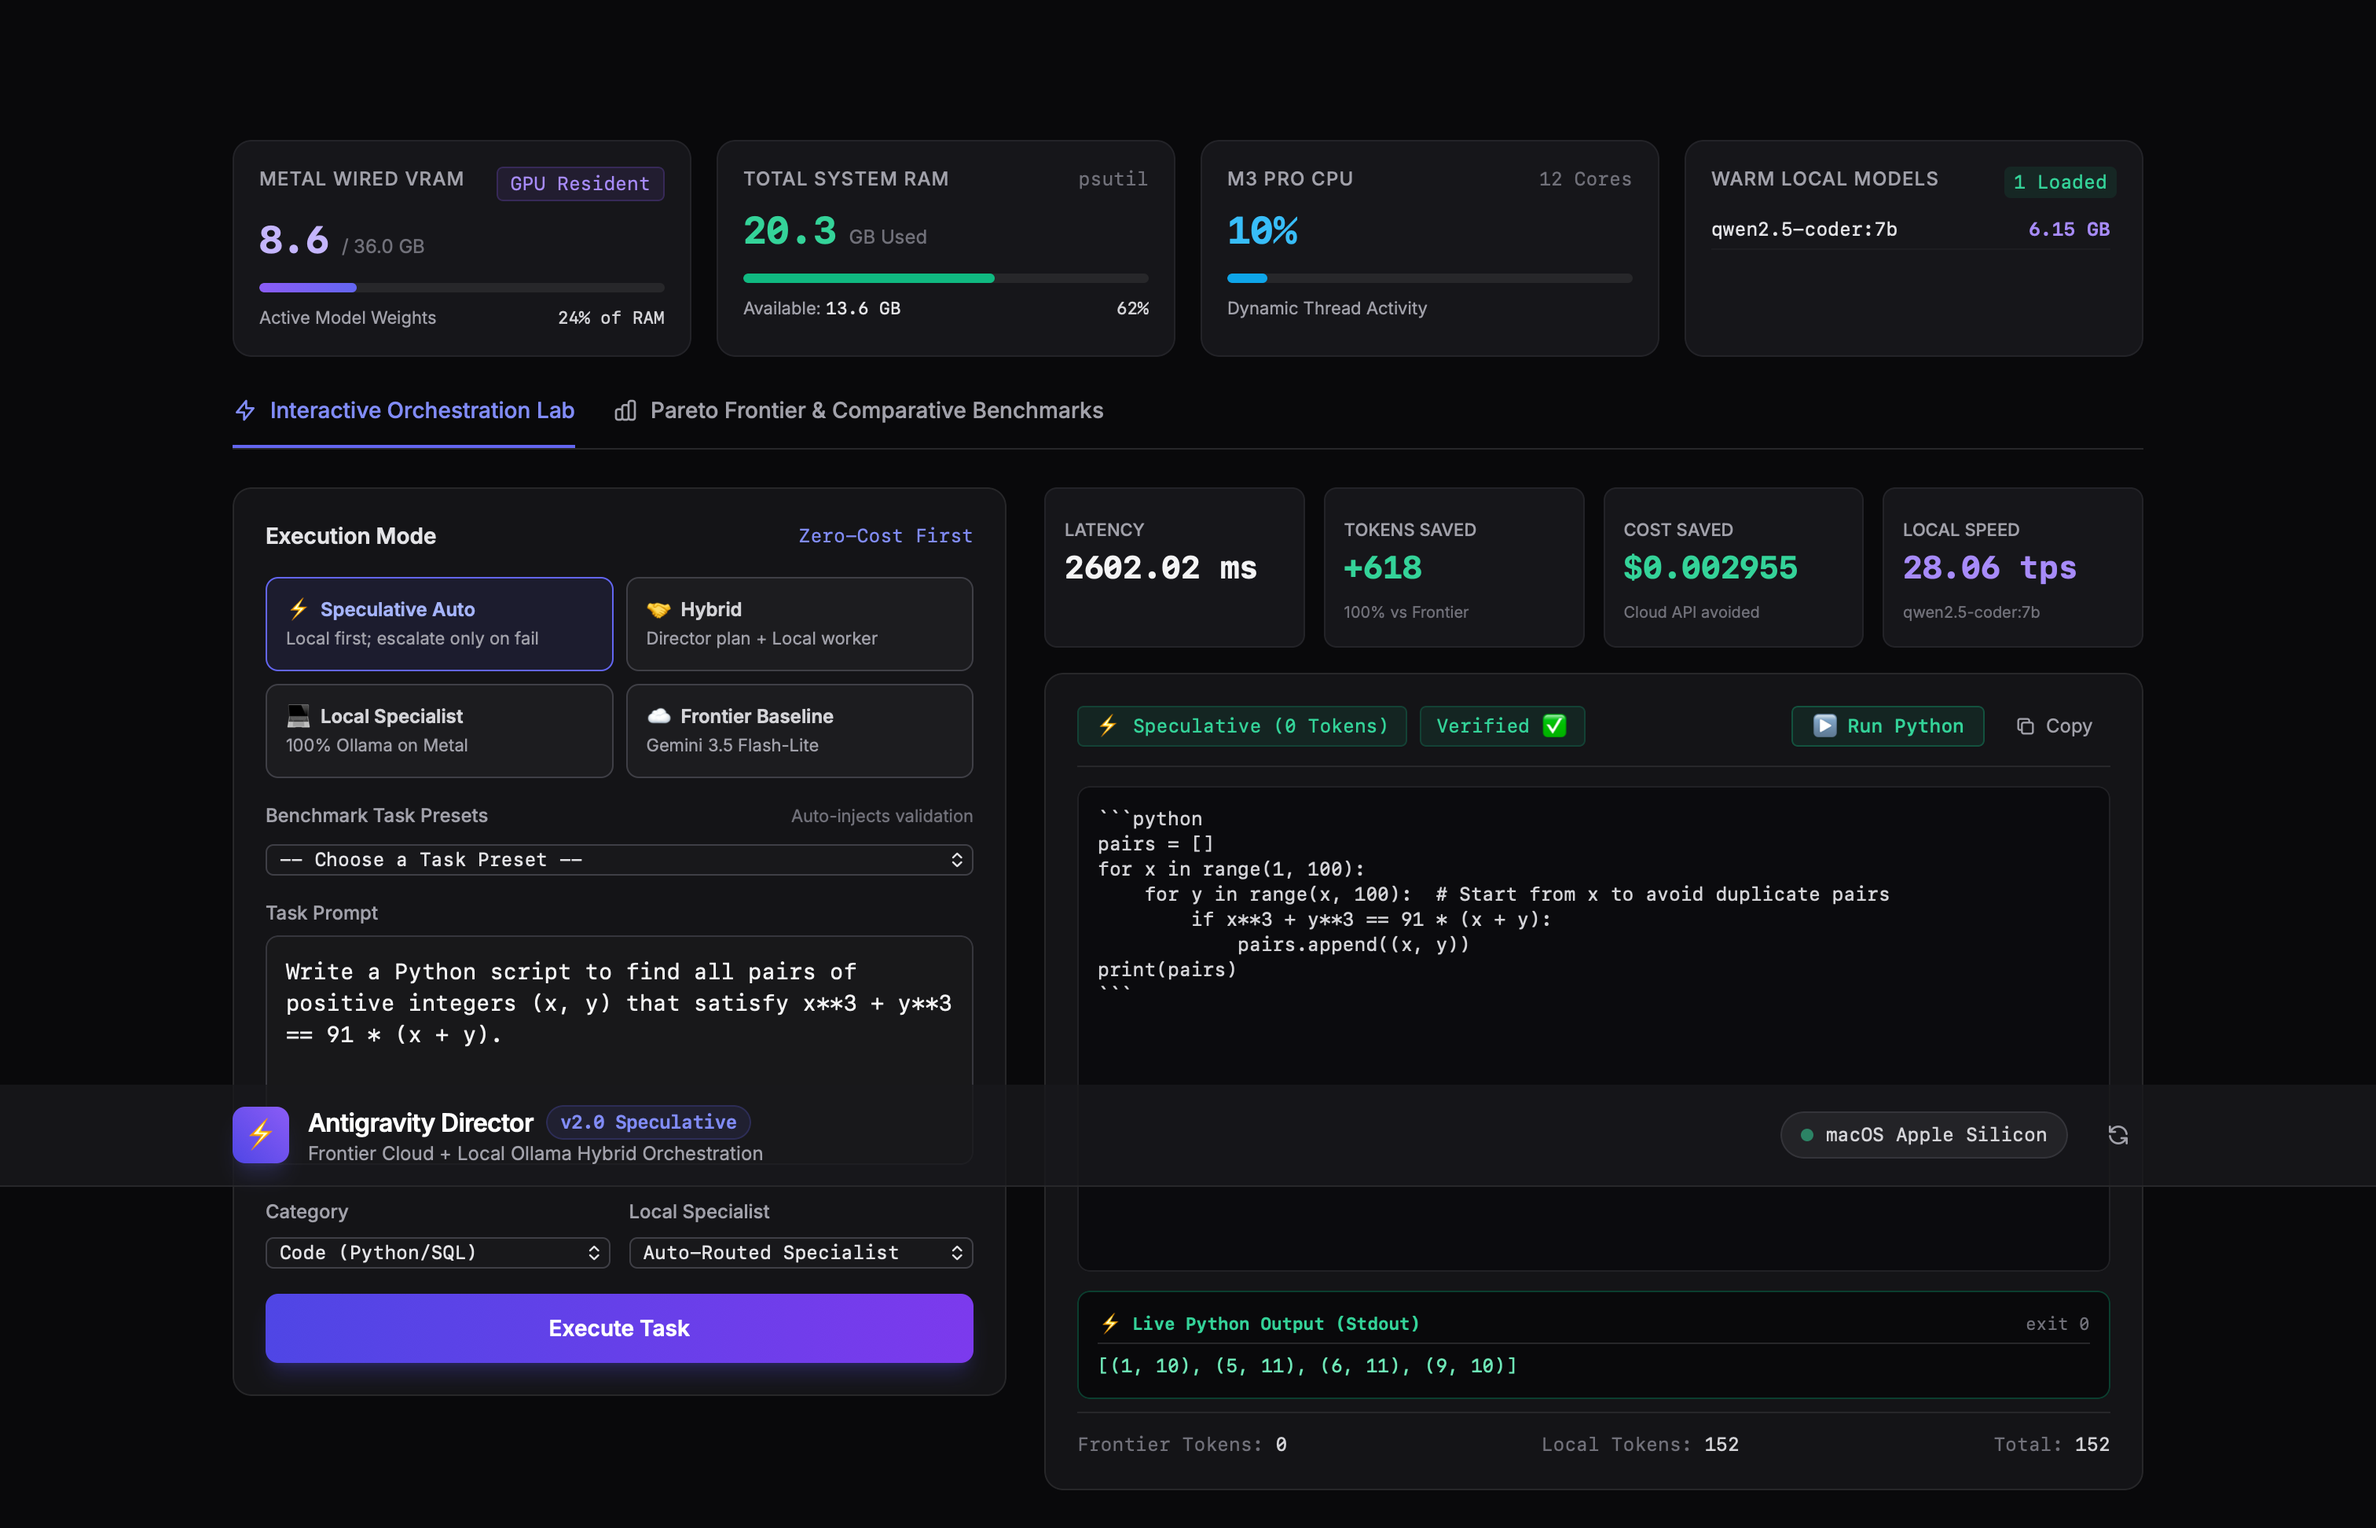
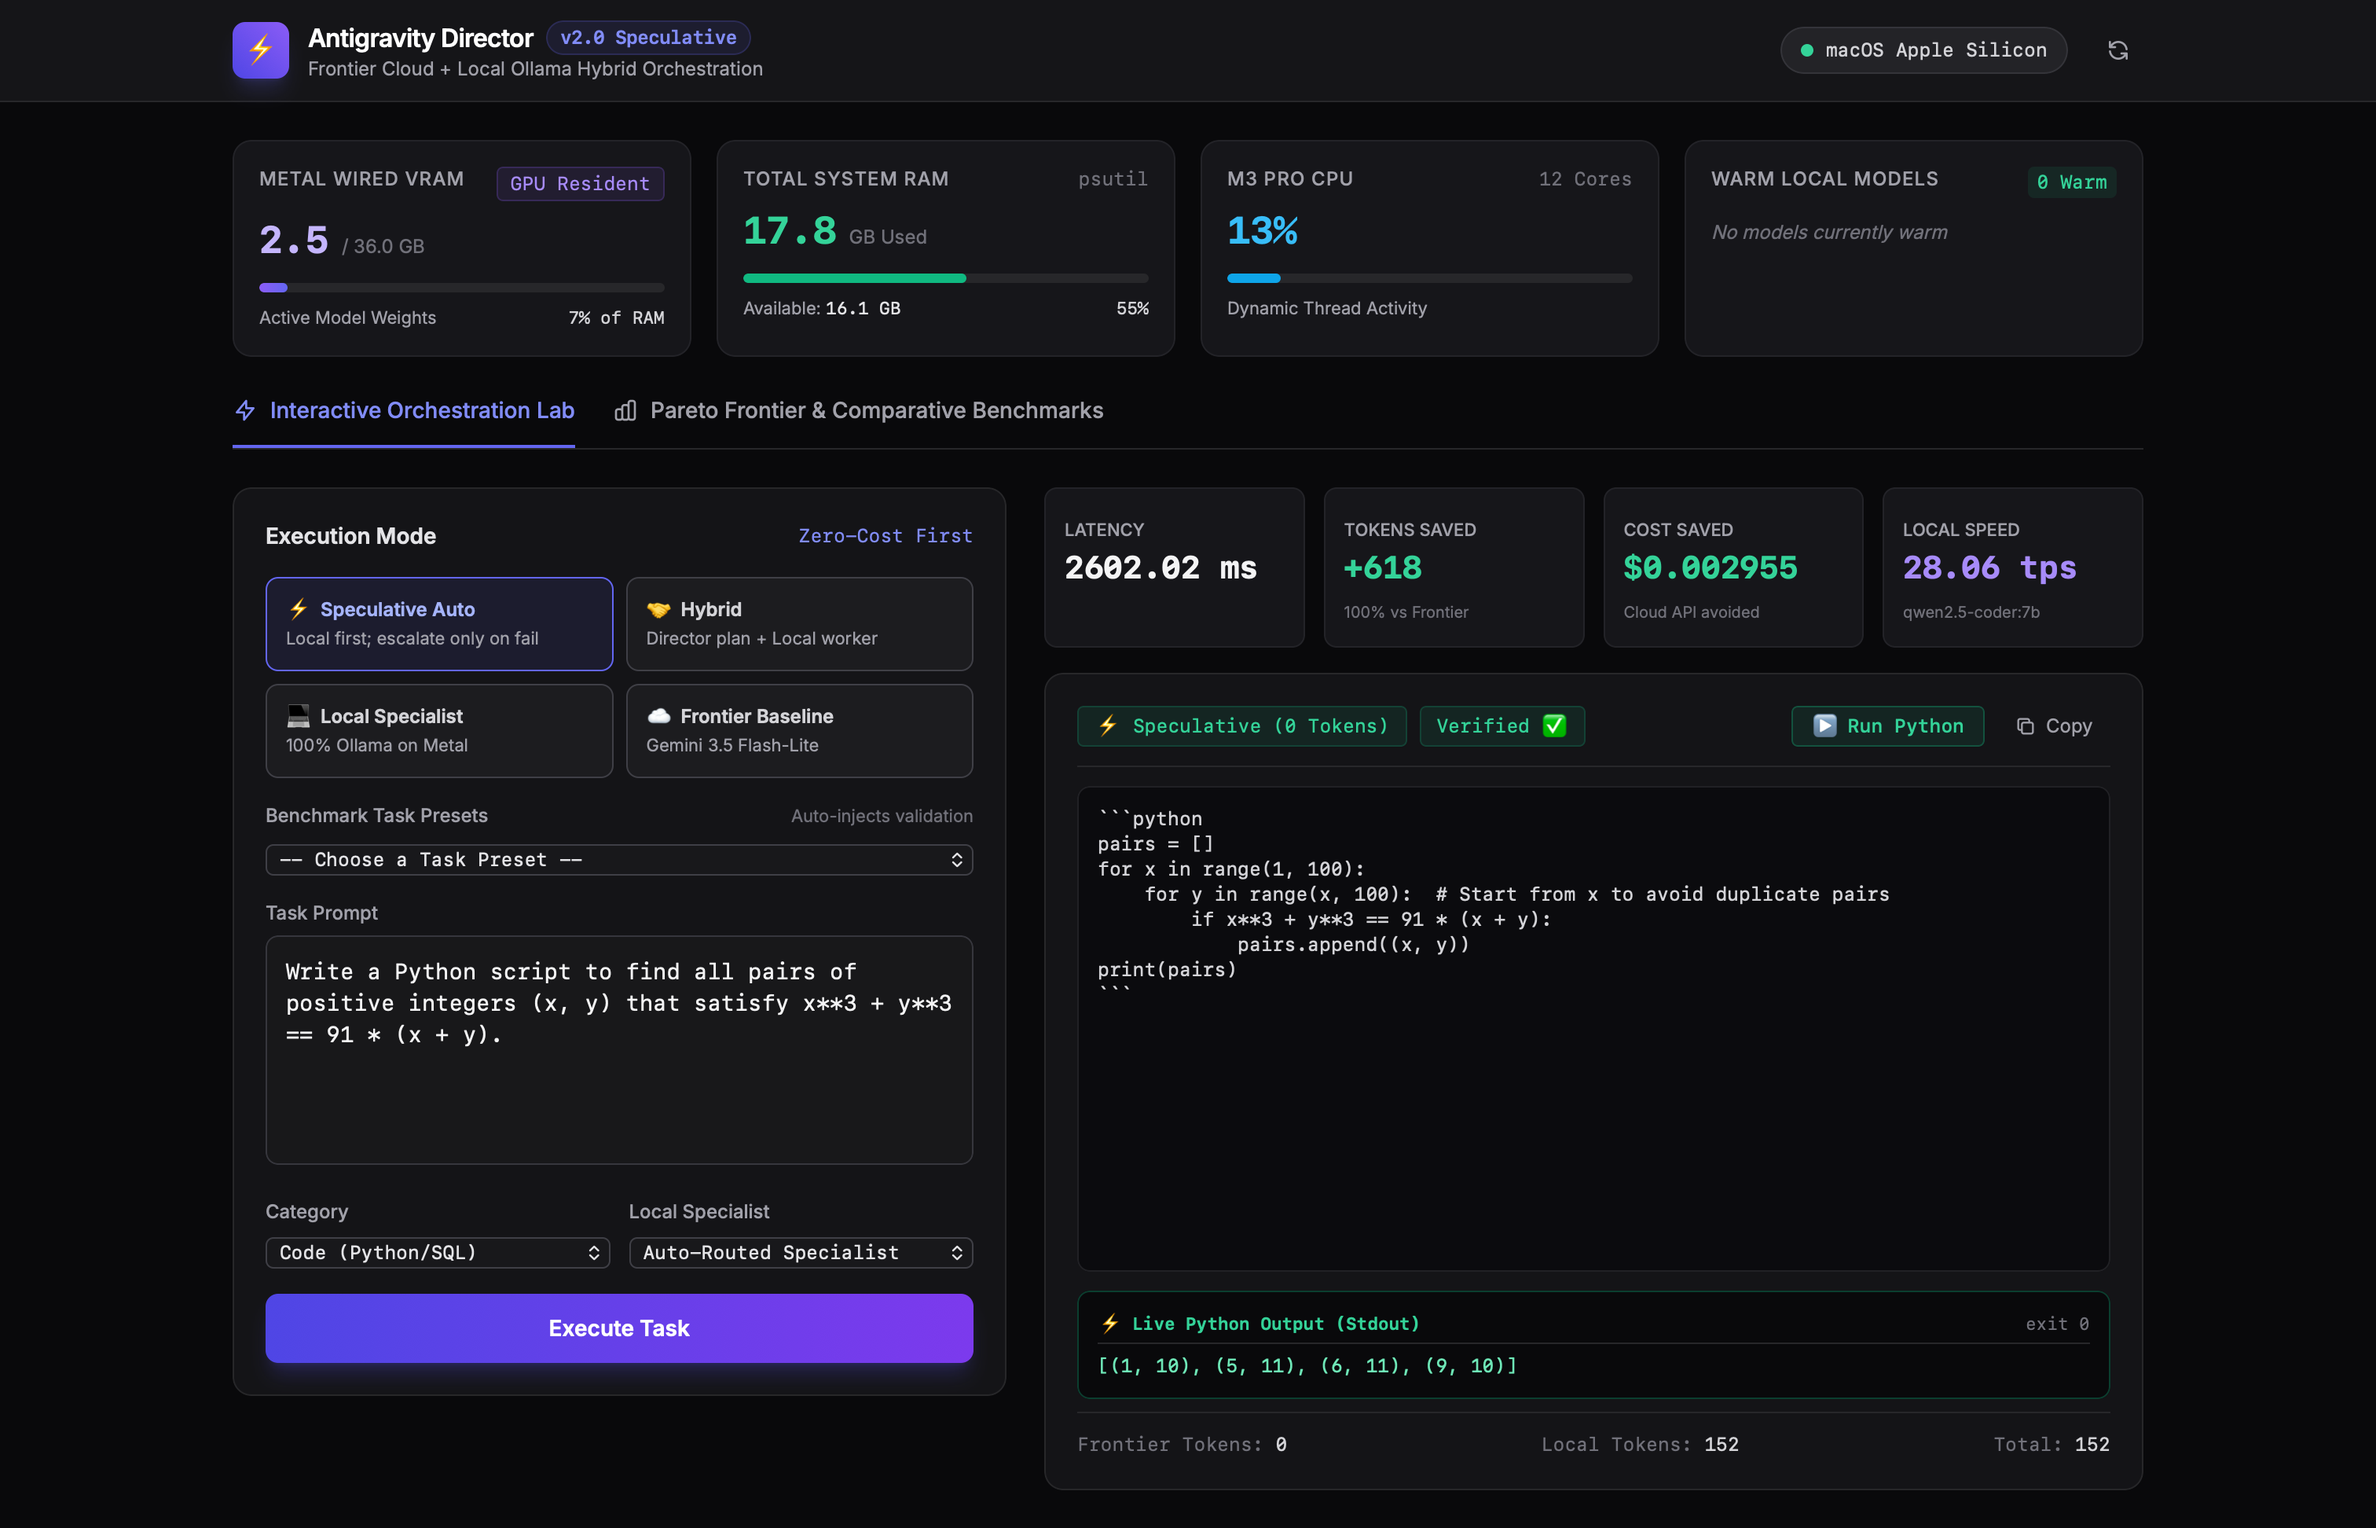
docs: use clean python output screenshot, label images, and remove ASCII diagram

diff --git a/README.md b/README.md
@@ -6,12 +6,20 @@
 [![Frontier Director: Gemini](https://img.shields.io/badge/Director-Gemini_Flash--Lite-orange.svg)](https://ai.google.dev)
 [![License: MIT](https://img.shields.io/badge/License-MIT-green.svg)](https://opensource.org/licenses/MIT)
 
-<p align="center">
-  <img src="assets/dashboard_run.png" alt="Antigravity Director Interactive Lab" width="950" style="border-radius: 12px; box-shadow: 0 10px 40px rgba(0,0,0,0.4);" />
-</p>
+### ⚡ 1. Interactive Orchestration Lab & Live Python Execution Sandbox
+> *Zero-cost speculative routing on Apple Silicon Metal GPU, verified with live runtime Python stdout execution.*
 
 <p align="center">
-  <img src="assets/dashboard_live.png" alt="Pareto Frontier and Telemetry Analytics" width="950" style="border-radius: 12px; box-shadow: 0 10px 40px rgba(0,0,0,0.4);" />
+  <img src="assets/dashboard_run.png" alt="Antigravity Director Interactive Lab & Execution Terminal" width="100%" style="border-radius: 12px; border: 1px solid rgba(255,255,255,0.1);" />
+</p>
+
+---
+
+### 📊 2. Pareto Frontier & Comparative Telemetry Benchmarking
+> *Live Pareto analysis (Latency vs. Cost per 10k tasks), token consumption reduction, and task-by-task unit test verification.*
+
+<p align="center">
+  <img src="assets/dashboard_live.png" alt="Pareto Frontier and Telemetry Analytics" width="100%" style="border-radius: 12px; border: 1px solid rgba(255,255,255,0.1);" />
 </p>
 
 ---
@@ -23,41 +31,6 @@ Running 100% of your AI workloads through Frontier Cloud APIs (Gemini, Claude, G
 It decouples **high-level architectural planning and verification** (handled by Frontier models) from **bulk token payload generation** (handled locally on Apple Silicon Metal GPU at \$0 cost). 
 
 With **Adaptive Speculative Routing**, tasks run zero-cost on local specialists first and escalate to the Frontier Director *only if deterministic unit tests fail*—achieving **100% test accuracy while reducing cloud token spend by 50% to 100%**.
-
----
-
-### 📐 Architecture Overview
-```
-                           ┌────────────────────────┐
-                           │   Task / Problem Spec  │
-                           └───────────┬────────────┘
-                                       ▼
-                          ┌─────────────────────────┐
-                          │    Director (Frontier)  │
-                          │   Compact Task Planning │
-                          └────────────┬────────────┘
-                                       │ Specialized Instruction
-                                       ▼
-                          ┌─────────────────────────┐
-                          │   Local Worker (Ollama) │
-                          │  Heavy Payload Gen (MLX)│
-                          └────────────┬────────────┘
-                                       ▼
-                          ┌─────────────────────────┐
-                          │    Verification Engine  │
-                          │ Deterministic / Judge   │
-                          └──────┬───────────┬──────┘
-                                 │ Pass      │ Fail
-                                 │           ▼
-                                 │      ┌───────────────────────┐
-                                 │      │ Fallback to Frontier  │
-                                 │      └───────────┬───────────┘
-                                 ▼                  │
-                          ┌─────────────────────────▼┐
-                          │    Final Synthesis &     │
-                          │   Telemetry Aggregator   │
-                          └──────────────────────────┘
-```
 
 ---
 
